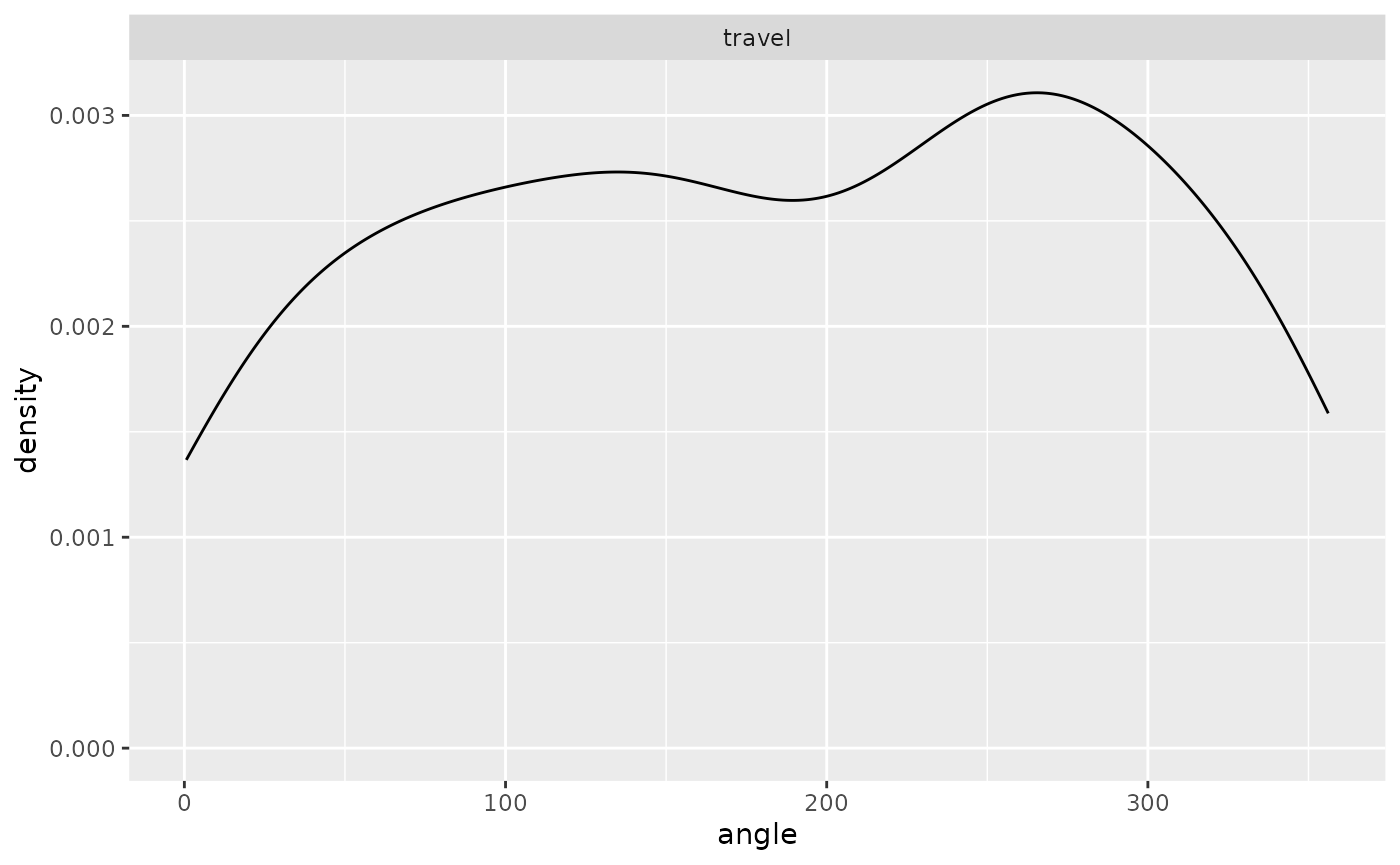
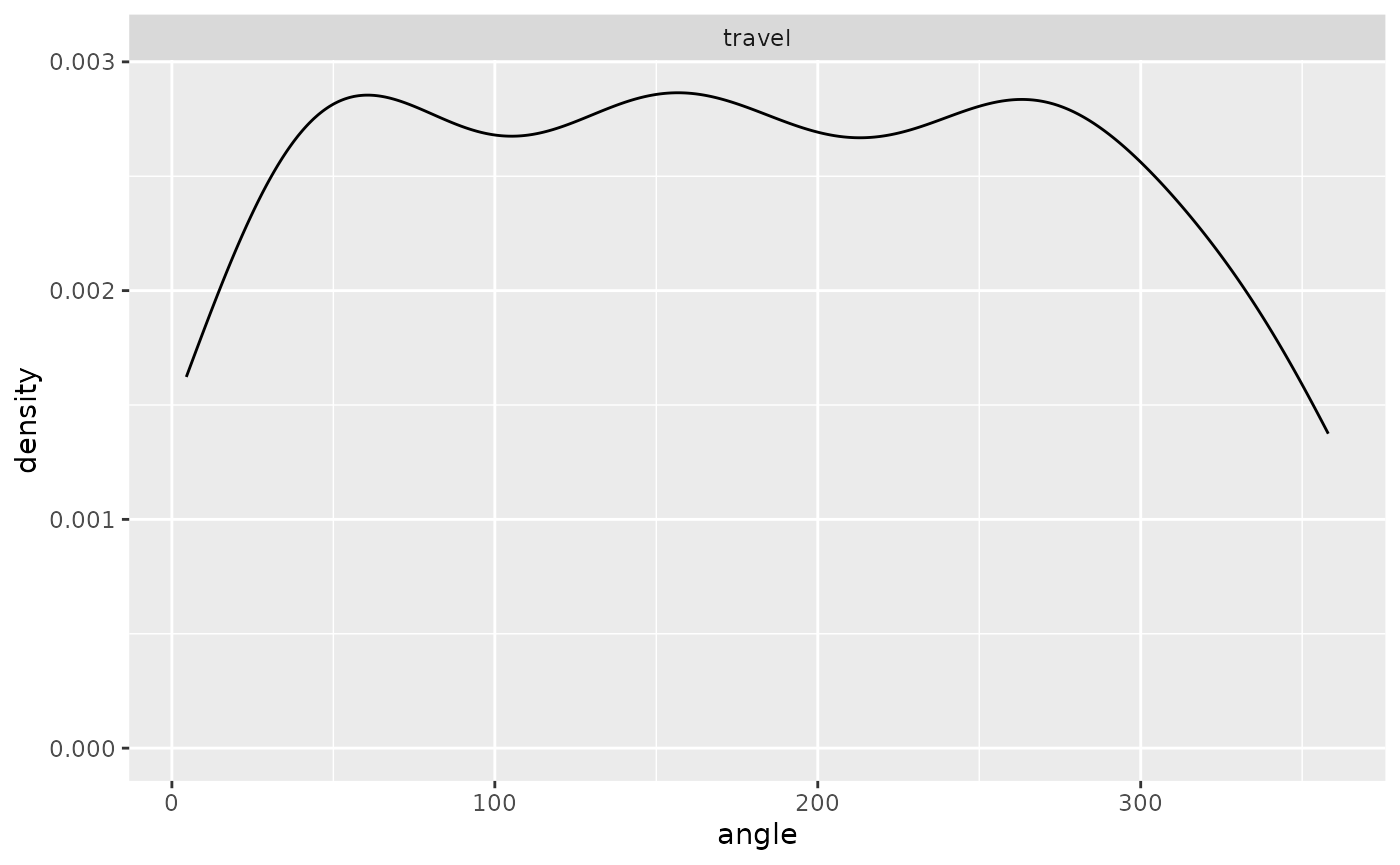
Deploying to gh-pages from @ CLambert1/simtools@201a00c9d037209eeeccd9b1bd571682e5f87031 🚀

diff --git a/reference/potential_position_func.html b/reference/potential_position_func.html
@@ -1,5 +1,5 @@
 <!DOCTYPE html>
-<!-- Generated by pkgdown: do not edit by hand --><html lang="en"><head><meta http-equiv="Content-Type" content="text/html; charset=UTF-8"><meta charset="utf-8"><meta http-equiv="X-UA-Compatible" content="IE=edge"><meta name="viewport" content="width=device-width, initial-scale=1, shrink-to-fit=no"><meta name="description" content="The function generates a bunch of potential positions to chose the next step from. Positions are generated based on provided bearing (Von Mises distribution) and step distributions (gamma distribution). For each position, the value of env_rast is retrieved as well as the distance from the colony location."><title>Identify potential next positions — potential_position_func • simtools</title><!-- favicons --><link rel="icon" type="image/png" sizes="16x16" href="../favicon-16x16.png"><link rel="icon" type="image/png" sizes="32x32" href="../favicon-32x32.png"><link rel="apple-touch-icon" type="image/png" sizes="180x180" href="../apple-touch-icon.png"><link rel="apple-touch-icon" type="image/png" sizes="120x120" href="../apple-touch-icon-120x120.png"><link rel="apple-touch-icon" type="image/png" sizes="76x76" href="../apple-touch-icon-76x76.png"><link rel="apple-touch-icon" type="image/png" sizes="60x60" href="../apple-touch-icon-60x60.png"><script src="../deps/jquery-3.6.0/jquery-3.6.0.min.js"></script><meta name="viewport" content="width=device-width, initial-scale=1, shrink-to-fit=no"><link href="../deps/bootstrap-5.3.1/bootstrap.min.css" rel="stylesheet"><script src="../deps/bootstrap-5.3.1/bootstrap.bundle.min.js"></script><!-- Font Awesome icons --><link rel="stylesheet" href="https://cdnjs.cloudflare.com/ajax/libs/font-awesome/5.12.1/css/all.min.css" integrity="sha256-mmgLkCYLUQbXn0B1SRqzHar6dCnv9oZFPEC1g1cwlkk=" crossorigin="anonymous"><link rel="stylesheet" href="https://cdnjs.cloudflare.com/ajax/libs/font-awesome/5.12.1/css/v4-shims.min.css" integrity="sha256-wZjR52fzng1pJHwx4aV2AO3yyTOXrcDW7jBpJtTwVxw=" crossorigin="anonymous"><!-- bootstrap-toc --><script src="https://cdn.jsdelivr.net/gh/afeld/bootstrap-toc@v1.0.1/dist/bootstrap-toc.min.js" integrity="sha256-4veVQbu7//Lk5TSmc7YV48MxtMy98e26cf5MrgZYnwo=" crossorigin="anonymous"></script><!-- headroom.js --><script src="https://cdnjs.cloudflare.com/ajax/libs/headroom/0.11.0/headroom.min.js" integrity="sha256-AsUX4SJE1+yuDu5+mAVzJbuYNPHj/WroHuZ8Ir/CkE0=" crossorigin="anonymous"></script><script src="https://cdnjs.cloudflare.com/ajax/libs/headroom/0.11.0/jQuery.headroom.min.js" integrity="sha256-ZX/yNShbjqsohH1k95liqY9Gd8uOiE1S4vZc+9KQ1K4=" crossorigin="anonymous"></script><!-- clipboard.js --><script src="https://cdnjs.cloudflare.com/ajax/libs/clipboard.js/2.0.6/clipboard.min.js" integrity="sha256-inc5kl9MA1hkeYUt+EC3BhlIgyp/2jDIyBLS6k3UxPI=" crossorigin="anonymous"></script><!-- search --><script src="https://cdnjs.cloudflare.com/ajax/libs/fuse.js/6.4.6/fuse.js" integrity="sha512-zv6Ywkjyktsohkbp9bb45V6tEMoWhzFzXis+LrMehmJZZSys19Yxf1dopHx7WzIKxr5tK2dVcYmaCk2uqdjF4A==" crossorigin="anonymous"></script><script src="https://cdnjs.cloudflare.com/ajax/libs/autocomplete.js/0.38.0/autocomplete.jquery.min.js" integrity="sha512-GU9ayf+66Xx2TmpxqJpliWbT5PiGYxpaG8rfnBEk1LL8l1KGkRShhngwdXK1UgqhAzWpZHSiYPc09/NwDQIGyg==" crossorigin="anonymous"></script><script src="https://cdnjs.cloudflare.com/ajax/libs/mark.js/8.11.1/mark.min.js" integrity="sha512-5CYOlHXGh6QpOFA/TeTylKLWfB3ftPsde7AnmhuitiTX4K5SqCLBeKro6sPS8ilsz1Q4NRx3v8Ko2IBiszzdww==" crossorigin="anonymous"></script><!-- pkgdown --><script src="../pkgdown.js"></script><meta property="og:title" content="Identify potential next positions — potential_position_func"><meta property="og:description" content="The function generates a bunch of potential positions to chose the next step from. Positions are generated based on provided bearing (Von Mises distribution) and step distributions (gamma distribution). For each position, the value of env_rast is retrieved as well as the distance from the colony location."><meta property="og:image" content="/logo.png"><!-- mathjax --><script src="https://cdnjs.cloudflare.com/ajax/libs/mathjax/2.7.5/MathJax.js" integrity="sha256-nvJJv9wWKEm88qvoQl9ekL2J+k/RWIsaSScxxlsrv8k=" crossorigin="anonymous"></script><script src="https://cdnjs.cloudflare.com/ajax/libs/mathjax/2.7.5/config/TeX-AMS-MML_HTMLorMML.js" integrity="sha256-84DKXVJXs0/F8OTMzX4UR909+jtl4G7SPypPavF+GfA=" crossorigin="anonymous"></script><!--[if lt IE 9]>
+<!-- Generated by pkgdown: do not edit by hand --><html lang="en"><head><meta http-equiv="Content-Type" content="text/html; charset=UTF-8"><meta charset="utf-8"><meta http-equiv="X-UA-Compatible" content="IE=edge"><meta name="viewport" content="width=device-width, initial-scale=1, shrink-to-fit=no"><meta name="description" content="The function generates a bunch of potential positions to choose the next step from. Positions are generated based on provided bearing (Von Mises distribution) and step distributions (Gamma distribution). For each position, the value of resource_layer is retrieved as well as the distance from the colony location."><title>Identify potential next positions — potential_position_func • simtools</title><!-- favicons --><link rel="icon" type="image/png" sizes="16x16" href="../favicon-16x16.png"><link rel="icon" type="image/png" sizes="32x32" href="../favicon-32x32.png"><link rel="apple-touch-icon" type="image/png" sizes="180x180" href="../apple-touch-icon.png"><link rel="apple-touch-icon" type="image/png" sizes="120x120" href="../apple-touch-icon-120x120.png"><link rel="apple-touch-icon" type="image/png" sizes="76x76" href="../apple-touch-icon-76x76.png"><link rel="apple-touch-icon" type="image/png" sizes="60x60" href="../apple-touch-icon-60x60.png"><script src="../deps/jquery-3.6.0/jquery-3.6.0.min.js"></script><meta name="viewport" content="width=device-width, initial-scale=1, shrink-to-fit=no"><link href="../deps/bootstrap-5.3.1/bootstrap.min.css" rel="stylesheet"><script src="../deps/bootstrap-5.3.1/bootstrap.bundle.min.js"></script><!-- Font Awesome icons --><link rel="stylesheet" href="https://cdnjs.cloudflare.com/ajax/libs/font-awesome/5.12.1/css/all.min.css" integrity="sha256-mmgLkCYLUQbXn0B1SRqzHar6dCnv9oZFPEC1g1cwlkk=" crossorigin="anonymous"><link rel="stylesheet" href="https://cdnjs.cloudflare.com/ajax/libs/font-awesome/5.12.1/css/v4-shims.min.css" integrity="sha256-wZjR52fzng1pJHwx4aV2AO3yyTOXrcDW7jBpJtTwVxw=" crossorigin="anonymous"><!-- bootstrap-toc --><script src="https://cdn.jsdelivr.net/gh/afeld/bootstrap-toc@v1.0.1/dist/bootstrap-toc.min.js" integrity="sha256-4veVQbu7//Lk5TSmc7YV48MxtMy98e26cf5MrgZYnwo=" crossorigin="anonymous"></script><!-- headroom.js --><script src="https://cdnjs.cloudflare.com/ajax/libs/headroom/0.11.0/headroom.min.js" integrity="sha256-AsUX4SJE1+yuDu5+mAVzJbuYNPHj/WroHuZ8Ir/CkE0=" crossorigin="anonymous"></script><script src="https://cdnjs.cloudflare.com/ajax/libs/headroom/0.11.0/jQuery.headroom.min.js" integrity="sha256-ZX/yNShbjqsohH1k95liqY9Gd8uOiE1S4vZc+9KQ1K4=" crossorigin="anonymous"></script><!-- clipboard.js --><script src="https://cdnjs.cloudflare.com/ajax/libs/clipboard.js/2.0.6/clipboard.min.js" integrity="sha256-inc5kl9MA1hkeYUt+EC3BhlIgyp/2jDIyBLS6k3UxPI=" crossorigin="anonymous"></script><!-- search --><script src="https://cdnjs.cloudflare.com/ajax/libs/fuse.js/6.4.6/fuse.js" integrity="sha512-zv6Ywkjyktsohkbp9bb45V6tEMoWhzFzXis+LrMehmJZZSys19Yxf1dopHx7WzIKxr5tK2dVcYmaCk2uqdjF4A==" crossorigin="anonymous"></script><script src="https://cdnjs.cloudflare.com/ajax/libs/autocomplete.js/0.38.0/autocomplete.jquery.min.js" integrity="sha512-GU9ayf+66Xx2TmpxqJpliWbT5PiGYxpaG8rfnBEk1LL8l1KGkRShhngwdXK1UgqhAzWpZHSiYPc09/NwDQIGyg==" crossorigin="anonymous"></script><script src="https://cdnjs.cloudflare.com/ajax/libs/mark.js/8.11.1/mark.min.js" integrity="sha512-5CYOlHXGh6QpOFA/TeTylKLWfB3ftPsde7AnmhuitiTX4K5SqCLBeKro6sPS8ilsz1Q4NRx3v8Ko2IBiszzdww==" crossorigin="anonymous"></script><!-- pkgdown --><script src="../pkgdown.js"></script><meta property="og:title" content="Identify potential next positions — potential_position_func"><meta property="og:description" content="The function generates a bunch of potential positions to choose the next step from. Positions are generated based on provided bearing (Von Mises distribution) and step distributions (Gamma distribution). For each position, the value of resource_layer is retrieved as well as the distance from the colony location."><meta property="og:image" content="/logo.png"><!-- mathjax --><script src="https://cdnjs.cloudflare.com/ajax/libs/mathjax/2.7.5/MathJax.js" integrity="sha256-nvJJv9wWKEm88qvoQl9ekL2J+k/RWIsaSScxxlsrv8k=" crossorigin="anonymous"></script><script src="https://cdnjs.cloudflare.com/ajax/libs/mathjax/2.7.5/config/TeX-AMS-MML_HTMLorMML.js" integrity="sha256-84DKXVJXs0/F8OTMzX4UR909+jtl4G7SPypPavF+GfA=" crossorigin="anonymous"></script><!--[if lt IE 9]>
 <script src="https://oss.maxcdn.com/html5shiv/3.7.3/html5shiv.min.js"></script>
 <script src="https://oss.maxcdn.com/respond/1.4.2/respond.min.js"></script>
 <![endif]--></head><body>
@@ -55,7 +55,7 @@
     </div>
 
     <div class="ref-description section level2">
-    <p>The function generates a bunch of potential positions to chose the next step from. Positions are generated based on provided bearing (Von Mises distribution) and step distributions (gamma distribution). For each position, the value of env_rast is retrieved as well as the distance from the colony location.</p>
+    <p>The function generates a bunch of potential positions to choose the next step from. Positions are generated based on provided bearing (Von Mises distribution) and step distributions (Gamma distribution). For each position, the value of <code>resource_layer</code> is retrieved as well as the distance from the colony location.</p>
     </div>
 
     <div class="section level2">

diff --git a/reference/simulate_trajectory_CPF.html b/reference/simulate_trajectory_CPF.html
@@ -77,7 +77,9 @@
 <span>  max_dist <span class="op">=</span> <span class="fl">40</span>,</span>
 <span>  step_duration <span class="op">=</span> <span class="fl">1</span>,</span>
 <span>  activity_threshold <span class="op">=</span> <span class="fl">0.5</span>,</span>
-<span>  max_duration <span class="op">=</span> <span class="fl">720</span></span>
+<span>  max_duration <span class="op">=</span> <span class="fl">720</span>,</span>
+<span>  residence_radius <span class="op">=</span> <span class="cn">NULL</span>,</span>
+<span>  residence_time <span class="op">=</span> <span class="cn">NULL</span></span>
 <span><span class="op">)</span></span></code></pre></div>
     </div>
 
@@ -150,6 +152,14 @@
 <dt>max_duration</dt>
 <dd><p>Total duration of a full trip, in minutes (defaults to 720, 12h)</p></dd>
 
+
+<dt>residence_radius</dt>
+<dd><p>The distance at which testing for residence time (in system unit). This value is used to draw a radius around each position to evaluate the residence time. If one of <code>residence_radius</code> and <code>residence_time</code> is NULL (both, by default), no residence time constraint is applied.</p></dd>
+
+
+<dt>residence_time</dt>
+<dd><p>The time an animal is allowed to spend in a same area (residence time). Expressed in number of steps (take care to provide a number of step consistent with <code>step_duration</code>). If one of <code>residence_radius</code> and <code>residence_time</code> is NULL (both, by default), no residence time constraint is applied.</p></dd>
+
 </dl></div>
     <div class="section level2">
     <h2 id="value">Value<a class="anchor" aria-label="anchor" href="#value"></a></h2>
@@ -159,10 +169,10 @@
     </div>
     <div class="section level2">
     <h2 id="details">Details<a class="anchor" aria-label="anchor" href="#details"></a></h2>
-    <p>The individual launches its trip at a given time period (starting.hour, ymd_hms format) and starts its returning trip either when at a given distance from its colony (provided with max_dist) or after a given time period (max_duration). The user can define the bearing and step distributions for the departing step, but also for the travelling and foraging bouts. By default, travelling are set to be directed movement patterns (large steps with low variability, low angles with low variability) and foraging to be area-restricted movements (short steps with low variability, large angles with large variability). The user can define the step duration, that is the time  interval at which the positions are sampled.
-For each position, ten potential subsequent positions are randomly sampled using <code><a href="potential_position_func.html">potential_position_func</a></code>, that is with movement parameters based on the activity the individual is engaged in at the previous step (travelling or foraging). The environmental suitability (a raster layer provided with resource_layer) is retrieved for each potential point based on their geographic coordinates, and their distance from the colony is computed using the rdist function from the fields package.
-The first four positions of the track after colony departure are randomly selected within the ten potential points sampled as described above, using travelling movement. Afterwards, subsequent positions are randomly sampled among the four out of ten potential points which have the highest values of environmental suitability. If the environmental suitability exceeds a given threshold (activity_threshold), the individual switches to foraging movements; if not, the individual continues travelling.
-When individuals reaches the threshold distance to colony (max_dist), or the trip duration exceeds the given duration (max_duration), they start their homeward journey. Potential next positions are sampled using only travelling movement parameters, and the next positions are selected based on the minimum distance to the colony. If several potential positions meet the selection criteria, the next step is randomly sampled within these positions. An individual is considered back when within 0.5 spatial unit (the unit depends on the provided resource layer) from the colony.</p>
+    <p>The individual launches its trip at a given time period (<code>starting.hour</code>, <code>ymd_hms</code> format) and starts its returning trip either when at a given distance from its colony (provided with <code>max_dist</code>) or after a given time period (max_duration). The user can define the bearing and step distributions for the departing step, but also for the travelling and foraging bouts. By default, travelling are set to be directed movement patterns (large steps with low variability, low angles with low variability) and foraging to be area-restricted movements (short steps with low variability, large angles with large variability). The user can define the step duration, that is the time  interval at which the positions are sampled.
+For each position, ten potential subsequent positions are randomly sampled using <code><a href="potential_position_func.html">potential_position_func</a></code>, that is with movement parameters based on the activity the individual is engaged in at the previous step (travelling or foraging). The environmental suitability (a raster layer provided with resource_layer) is retrieved for each potential point based on their geographic coordinates, and their distance from the colony is computed using the <code>rdist</code> function from the fields package.
+The first four positions of the track after colony departure are randomly selected within the ten potential points sampled as described above, using travelling movement. Afterwards, residence time is checked for every points: residence time is considered reached when a user-defined number of previous positions (as defined with <code>residence_time</code>) fall within the <code>residence_radius</code>. If the residence time is reached, the potential subsequent positions falling outside the residence_radius are extracted, and the next position is sampled as the one of them with the highest environmental suitability. If no potential position falls outside the radius (which can be the case when the radius largely exceeds the steps), the next position is the point situated at the largest distance from the previous position in the track. If the residence time is not reached, the subsequent position is randomly sampled among the four out of ten potential points which have the highest values of environmental suitability. If the environmental suitability of the selected subsequent position exceeds a given threshold (<code>activity_threshold</code>), the individual switches to foraging movements; if not, the individual continues travelling.
+When individuals reaches the threshold distance to colony (<code>max_dist</code>), or the trip duration exceeds the given duration (<code>max_duration</code>), they start their homeward journey. Potential next positions are sampled using only travelling movement parameters, and the next positions are selected based on the minimum distance to the colony. If several potential positions meet the selection criteria, the next step is randomly sampled within these positions. An individual is considered back when within 0.5 spatial unit (the unit depends on the provided resource layer) from the colony.</p>
     </div>
     <div class="section level2">
     <h2 id="see-also">See also<a class="anchor" aria-label="anchor" href="#see-also"></a></h2>
@@ -213,7 +223,9 @@ When individuals reaches the threshold distance to colony (max_dist), or the tri
 <span class="r-in"><span>                    max_dist <span class="op">=</span> <span class="fl">40</span>,</span></span>
 <span class="r-in"><span>                    step_duration <span class="op">=</span> <span class="fl">5</span>,</span></span>
 <span class="r-in"><span>                    activity_threshold <span class="op">=</span> <span class="fl">0.70</span>,</span></span>
-<span class="r-in"><span>                    max_duration <span class="op">=</span> <span class="fl">720</span><span class="op">)</span></span></span>
+<span class="r-in"><span>                    max_duration <span class="op">=</span> <span class="fl">720</span>,</span></span>
+<span class="r-in"><span>                    residence_radius <span class="op">=</span> <span class="fl">2</span>,</span></span>
+<span class="r-in"><span>                    residence_time <span class="op">=</span> <span class="fl">20</span><span class="op">)</span></span></span>
 <span class="r-in"><span></span></span>
 <span class="r-in"><span><span class="co"># view the trajectory</span></span></span>
 <span class="r-in"><span><span class="fu"><a href="https://ggplot2.tidyverse.org/reference/ggplot.html" class="external-link">ggplot</a></span><span class="op">(</span><span class="va">single_traj</span><span class="op">)</span> <span class="op">+</span></span></span>

diff --git a/articles/simulate-individual-movements.html b/articles/simulate-individual-movements.html
@@ -97,10 +97,10 @@
 <h2 id="define-potential-next-positions">Define potential next positions<a class="anchor" aria-label="anchor" href="#define-potential-next-positions"></a>
 </h2>
 <p><code><a href="../reference/potential_position_func.html">potential_position_func()</a></code> generates a bunch of potential
-positions to chose the next step from. Positions are generated based on
-provided bearing (Von Mises distribution) and step distributions (gamma
-distribution). For each position, the value of env_rast is retrieved as
-well as the distance from the colony location.</p>
+positions to choose the next step from. Positions are generated based on
+provided bearing (Von Mises) and step (Gamma) distributions. For each
+position, the value of resource_layer is retrieved as well as the
+distance from the colony location.</p>
 <div class="sourceCode" id="cb2"><pre class="downlit sourceCode r">
 <code class="sourceCode R"><span><span class="va">from</span> <span class="op">&lt;-</span> <span class="fu"><a href="https://rdrr.io/r/base/data.frame.html" class="external-link">data.frame</a></span><span class="op">(</span>Lon <span class="op">=</span> <span class="fl">1</span>, Lat <span class="op">=</span> <span class="fl">2</span>, toto <span class="op">=</span> <span class="fl">5</span><span class="op">)</span></span>
 <span><span class="va">colony_location</span> <span class="op">&lt;-</span> <span class="fu"><a href="https://rdrr.io/r/base/data.frame.html" class="external-link">data.frame</a></span><span class="op">(</span>Lon <span class="op">=</span> <span class="fl">2</span>, Lat <span class="op">=</span> <span class="fl">5</span><span class="op">)</span></span>
@@ -158,9 +158,19 @@ their distance from the colony is computed using the rdist function from
 the fields package.</p>
 <p>The first four positions of the track after colony departure are
 randomly selected within the ten potential points sampled as described
-above, using travelling movement. Afterwards, subsequent positions are
-randomly sampled among the four out of ten potential points which have
-the highest values of environmental suitability. If the environmental
+above, using travelling movement. Afterwards, residence time is checked
+for every points: residence time is considered reached when a
+user-defined number of previous positions (as defined with
+residence_time) fall within the residence_radius. If the residence time
+is reached, the potential subsequent positions falling outside the
+residence_radius are extracted, and the next position is sampled as the
+one of them with the highest environmental suitability. If no potential
+position falls outside the radius (which can be the case when the radius
+largely exceeds the steps), the next position is the point situated at
+the largest distance from the previous position in the track. If the
+residence time is not reached, the subsequent position is randomly
+sampled among the four out of ten potential points which have the
+highest values of environmental suitability. If the environmental
 suitability exceeds a given threshold (activity_threshold), the
 individual switches to foraging movements; if not, the individual
 continues travelling.</p>
@@ -210,7 +220,9 @@ colony.</p>
 <span>                    max_dist <span class="op">=</span> <span class="fl">40</span>,</span>
 <span>                    step_duration <span class="op">=</span> <span class="fl">5</span>,</span>
 <span>                    activity_threshold <span class="op">=</span> <span class="fl">0.70</span>,</span>
-<span>                    max_duration <span class="op">=</span> <span class="fl">720</span><span class="op">)</span></span>
+<span>                    max_duration <span class="op">=</span> <span class="fl">720</span>,</span>
+<span>                    residence_radius <span class="op">=</span> <span class="fl">2</span>,</span>
+<span>                    residence_time <span class="op">=</span> <span class="fl">20</span><span class="op">)</span></span>
 <span></span>
 <span><span class="co"># view the trajectory</span></span>
 <span><span class="fu"><a href="https://ggplot2.tidyverse.org/reference/ggplot.html" class="external-link">ggplot</a></span><span class="op">(</span><span class="va">single_traj</span><span class="op">)</span> <span class="op">+</span></span>
@@ -239,7 +251,6 @@ colony.</p>
 <p><code><a href="../reference/simulate_trajectory_FR.html">simulate_trajectory_FR()</a></code> does the same as above, but the
 individual is not restrained around its colony and does not perform
 homing bout.</p>
-<p>To do: add a condition on the time spent around a same area.</p>
 <div class="sourceCode" id="cb7"><pre class="downlit sourceCode r">
 <code class="sourceCode R"><span><span class="kw"><a href="https://rdrr.io/r/base/library.html" class="external-link">library</a></span><span class="op">(</span><span class="va"><a href="https://ggplot2.tidyverse.org" class="external-link">ggplot2</a></span><span class="op">)</span></span>
 <span><span class="kw"><a href="https://rdrr.io/r/base/library.html" class="external-link">library</a></span><span class="op">(</span><span class="va"><a href="https://sjmgarnier.github.io/viridis/" class="external-link">viridis</a></span><span class="op">)</span></span>
@@ -262,7 +273,9 @@ homing bout.</p>
 <span>                    miny <span class="op">=</span> <span class="fl">0</span>, maxy <span class="op">=</span> <span class="fl">90</span>,</span>
 <span>                    step_duration <span class="op">=</span> <span class="fl">1</span>,</span>
 <span>                    activity_threshold <span class="op">=</span> <span class="fl">0.7</span>,</span>
-<span>                    max_duration <span class="op">=</span> <span class="fl">2000</span><span class="op">)</span></span>
+<span>                    max_duration <span class="op">=</span> <span class="fl">2000</span>,</span>
+<span>                    residence_radius <span class="op">=</span> <span class="fl">1</span>,</span>
+<span>                    residence_time <span class="op">=</span> <span class="fl">20</span><span class="op">)</span></span>
 <span></span>
 <span><span class="co"># view the trajectory</span></span>
 <span><span class="fu"><a href="https://ggplot2.tidyverse.org/reference/ggplot.html" class="external-link">ggplot</a></span><span class="op">(</span><span class="va">single_traj</span><span class="op">)</span> <span class="op">+</span></span>

diff --git a/reference/simulate_trajectory_FR.html b/reference/simulate_trajectory_FR.html
@@ -76,7 +76,9 @@
 <span>  maxy <span class="op">=</span> <span class="fl">90</span>,</span>
 <span>  step_duration <span class="op">=</span> <span class="fl">1</span>,</span>
 <span>  activity_threshold <span class="op">=</span> <span class="fl">0.5</span>,</span>
-<span>  max_duration <span class="op">=</span> <span class="fl">720</span></span>
+<span>  max_duration <span class="op">=</span> <span class="fl">720</span>,</span>
+<span>  residence_radius <span class="op">=</span> <span class="cn">NULL</span>,</span>
+<span>  residence_time <span class="op">=</span> <span class="cn">NULL</span></span>
 <span><span class="op">)</span></span></code></pre></div>
     </div>
 
@@ -145,6 +147,14 @@
 <dt>max_duration</dt>
 <dd><p>Total duration of a full trip, in minutes (defaults to 720, 12h)</p></dd>
 
+
+<dt>residence_radius</dt>
+<dd><p>The distance at which testing for residence time (in system unit). This value is used to draw a radius around each position to evaluate the residence time. If one of <code>residence_radius</code> and <code>residence_time</code> is NULL (both, by default), no residence time constraint is applied.</p></dd>
+
+
+<dt>residence_time</dt>
+<dd><p>The time an animal is allowed to spend in a same area (residence time). Expressed in number of steps (take care to provide a number of step consistent with <code>step_duration</code>). If one of <code>residence_radius</code> and <code>residence_time</code> is NULL (both, by default), no residence time constraint is applied.</p></dd>
+
 </dl></div>
     <div class="section level2">
     <h2 id="value">Value<a class="anchor" aria-label="anchor" href="#value"></a></h2>
@@ -184,7 +194,9 @@
 <span class="r-in"><span>                    miny <span class="op">=</span> <span class="fl">0</span>, maxy <span class="op">=</span> <span class="fl">90</span>,</span></span>
 <span class="r-in"><span>                    step_duration <span class="op">=</span> <span class="fl">1</span>,</span></span>
 <span class="r-in"><span>                    activity_threshold <span class="op">=</span> <span class="fl">0.7</span>,</span></span>
-<span class="r-in"><span>                    max_duration <span class="op">=</span> <span class="fl">2000</span><span class="op">)</span></span></span>
+<span class="r-in"><span>                    max_duration <span class="op">=</span> <span class="fl">2000</span>,</span></span>
+<span class="r-in"><span>                    residence_radius <span class="op">=</span> <span class="fl">1</span>,</span></span>
+<span class="r-in"><span>                    residence_time <span class="op">=</span> <span class="fl">20</span><span class="op">)</span></span></span>
 <span class="r-in"><span></span></span>
 <span class="r-in"><span><span class="co"># view the trajectory</span></span></span>
 <span class="r-in"><span><span class="fu"><a href="https://ggplot2.tidyverse.org/reference/ggplot.html" class="external-link">ggplot</a></span><span class="op">(</span><span class="va">single_traj</span><span class="op">)</span> <span class="op">+</span></span></span>
